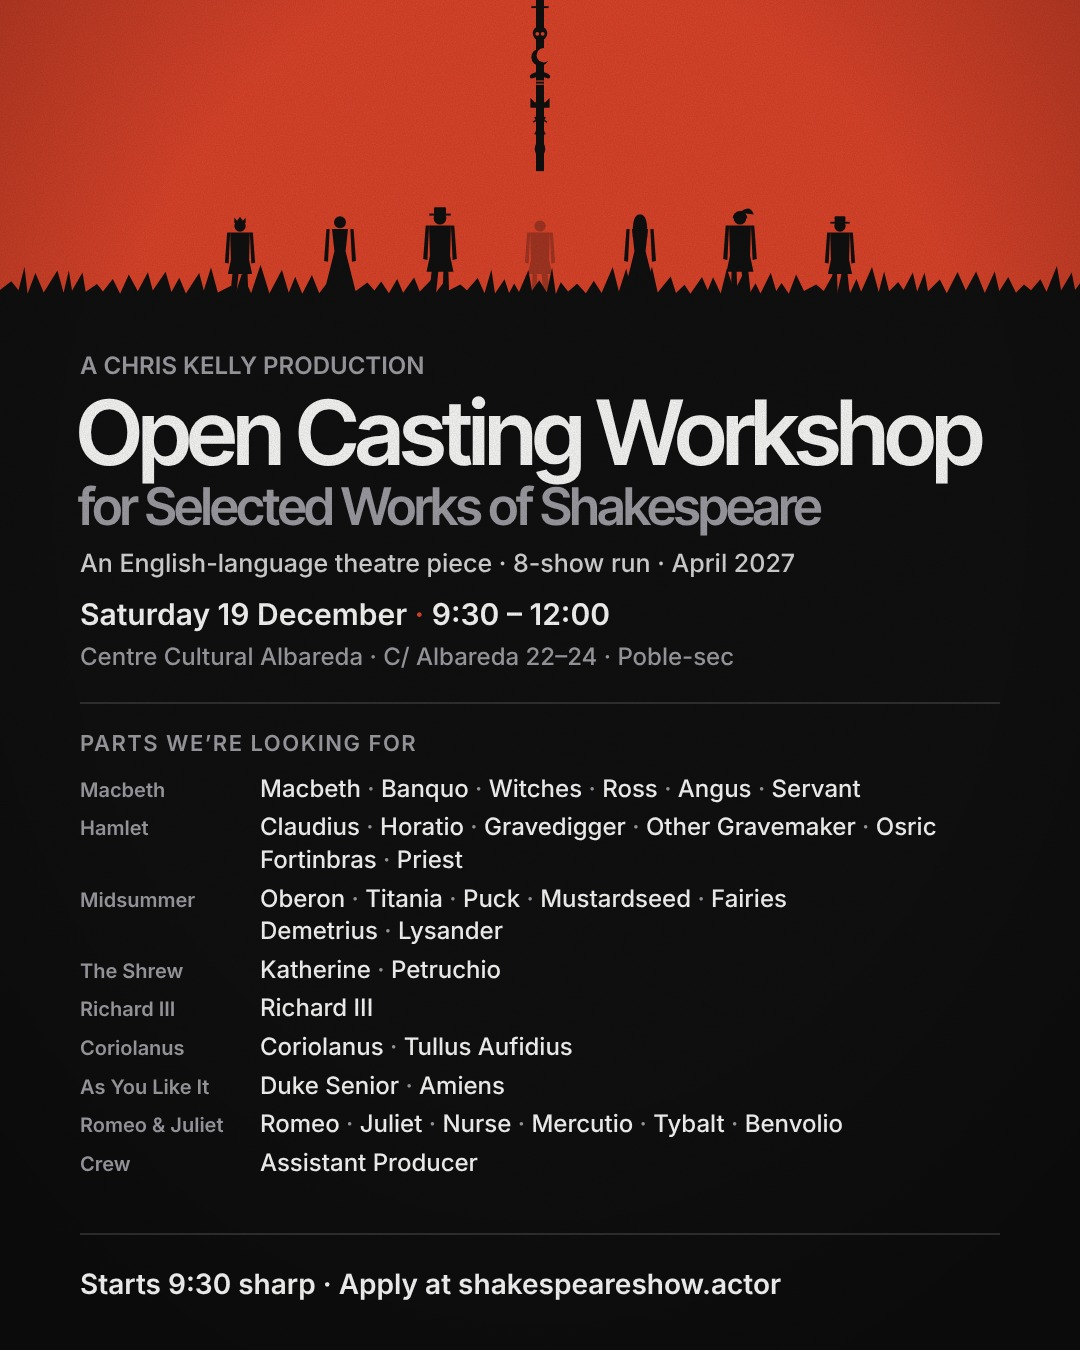
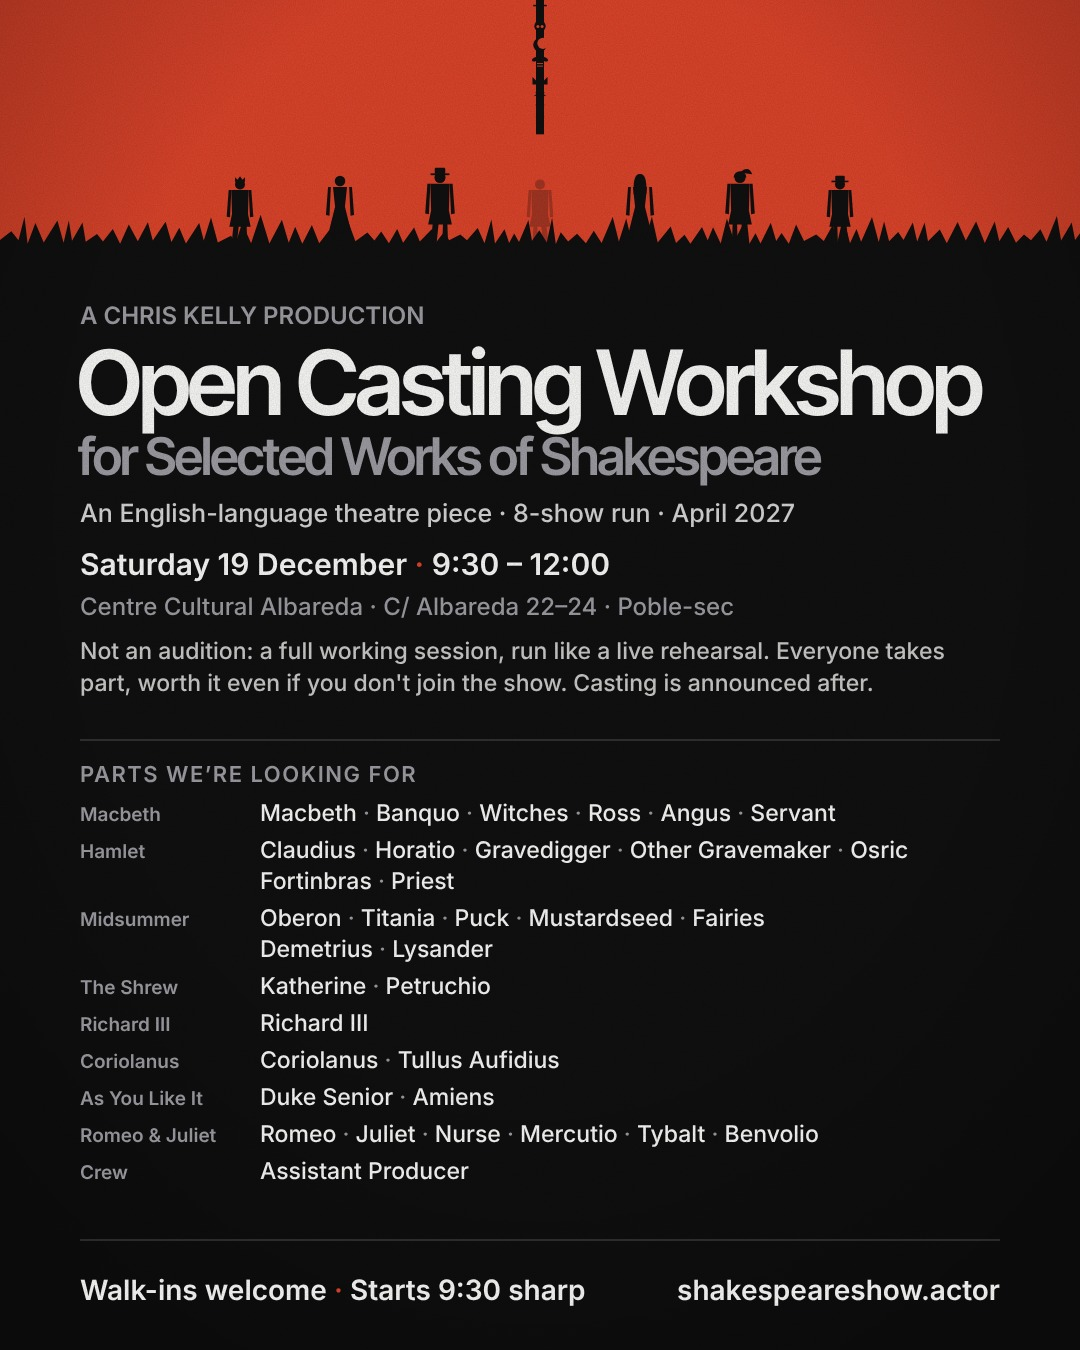
Casting posters: walk-ins welcome, what the workshop is, website in footer
Claude-Session: https://claude.ai/code/session_01P8wBzBKG8Vm4Nk1QFh6zxA

Changed region(s): [[0.0, 0.0, 1.0, 0.8711], [0.0611, 0.9333, 0.9167, 0.9644], [0.0611, 0.7156, 0.2139, 0.8711]]

diff --git a/index.html b/index.html
@@ -2622,7 +2622,7 @@ function castingBlock(compact){
       <h2 id="castwsh" style="margin:4px 0 10px">Come and <em>play</em></h2>
       <p class="clede" style="margin:0 0 14px">Not a normal audition: a full working session where everyone takes part, run like a live rehearsal. We work on the text, the verse and the scenes, on our feet. Even if you don't join the show, you leave with a morning of hands-on Shakespeare. Casting is announced after the workshop.</p>
       <dl class="facts">
-        <div><dt>When</dt><dd><b>Saturday 19 December · 9:30–12:00</b><br><span class="meta">Starts 9:30 sharp</span></dd></div>
+        <div><dt>When</dt><dd><b>Saturday 19 December · 9:30–12:00</b><br><span class="meta">Starts 9:30 sharp · walk-ins welcome</span></dd></div>
         <div><dt>Where</dt><dd><a href="${map}" target="_blank" rel="noopener">Centre Cultural Albareda</a><br><span class="meta">C/ Albareda 22–24, Poble-sec, Barcelona</span></dd></div>
         <div><dt>Casting</dt><dd>Macbeth, Hamlet, A Midsummer Night's Dream, The Taming of the Shrew, Richard III, Coriolanus, As You Like It, Romeo &amp; Juliet<br><span class="meta">Also looking for an Assistant Producer</span></dd></div>
       </dl>

diff --git a/posters/source/casting.py b/posters/source/casting.py
@@ -37,8 +37,8 @@ def wrapw(words, face, size, width, sep=" · "):
         else: cur = t
     lines.append(cur)
     # no orphans: if the last line is a single part, take one more down with it
-    if len(lines) > 1 and " · " not in lines[-1] and " · " in lines[-2]:
-        a, b = lines[-2].rsplit(" · ", 1); lines[-2:] = [a, b + sep + lines[-1]]
+    if len(lines) > 1 and sep not in lines[-1] and sep in lines[-2]:
+        a, b = lines[-2].rsplit(sep, 1); lines[-2:] = [a, b + sep + lines[-1]]
     return lines
 
 def casting(W, H):
@@ -46,8 +46,8 @@ def casting(W, H):
     k = 1.12 if tall else 1
     rnd = random.Random("casting" + str(H))
     bg = "#D8432A"
-    ground = 360 if tall else 290
-    figh = 130 if tall else 84
+    ground = 330 if tall else 240
+    figh = 124 if tall else 74
     M = 80; TW = W - 2 * M
     s = [f'<svg xmlns="http://www.w3.org/2000/svg" width="{W}" height="{H}" viewBox="0 0 {W} {H}">',
          '<defs><filter id="grain"><feTurbulence type="fractalNoise" baseFrequency=".9" numOctaves="2" seed="4"/><feColorMatrix values="0 0 0 0 0  0 0 0 0 0  0 0 0 0 0  0 0 0 -1.2 1.05"/></filter>',
@@ -75,21 +75,29 @@ def casting(W, H):
     s.append(f'<text x="{M}" y="{y:.0f}" font-family="Inter" font-weight="600" font-size="{ds}" fill="{WHITE}">{DATE} <tspan fill="{bg}">·</tspan> {TIME}</text>')
     y += ds * 1.35
     s.append(f'<text x="{M}" y="{y:.0f}" font-family="Inter" font-weight="500" font-size="{round(ds*.8)}" fill="{GREY}">{esc(PLACE)} · {esc(ADDR)}</text>')
+    # what it is
+    bs = 26 if tall else 23
+    y += bs * 1.9
+    blurb = ("Not an audition: a full working session, run like a live rehearsal. Everyone takes part, "
+             "worth it even if you don't join the show. Casting is announced after.")
+    for line in wrapw(blurb.split(" "), "Inter500", bs, TW, sep=" "):
+        s.append(f'<text x="{M}" y="{y:.0f}" font-family="Inter" font-weight="500" font-size="{bs}" fill="{WHITE}" fill-opacity=".8">{esc(line)}</text>')
+        y += bs * 1.4
     # parts
-    y += ds * 1.25
+    y += ds * .55
     s.append(f'<line x1="{M}" y1="{y:.0f}" x2="{W-M}" y2="{y:.0f}" stroke="{WHITE}" stroke-opacity=".14" stroke-width="2"/>')
     ls = round(22 * k)
-    y += ls * 2.2
+    y += ls * (2.2 if tall else 1.9)
     s.append(f'<text x="{M}" y="{y:.0f}" font-family="Inter" font-weight="600" font-size="{ls}" fill="{GREY}" letter-spacing="1.5">PARTS WE’RE LOOKING FOR</text>')
-    ps = 28 if tall else 24; col = 196 if tall else 180
-    y += ps * 1.9
+    ps = 28 if tall else 23; col = 196 if tall else 180
+    y += ps * (1.9 if tall else 1.7)
     for play, parts in PARTS:
         s.append(f'<text x="{M}" y="{y:.0f}" font-family="Inter" font-weight="600" font-size="{round(ps*.82)}" fill="{GREY}">{esc(play)}</text>')
         for line in wrapw(parts, "Inter500", ps, TW - col):
             s.append(f'<text x="{M+col}" y="{y:.0f}" font-family="Inter" font-weight="500" font-size="{ps}" fill="{WHITE}">{esc(line).replace(" · ", f" <tspan fill=\'{GREY}\'>·</tspan> ")}</text>')
             y += ps * 1.36
         y += ps * .25
-    if tall:
+    if False:
         qs = 34
         y += qs * 1.6
         s.append(f'<text x="{M}" y="{y:.0f}" font-family="Inter" font-style="italic" font-size="{qs}" fill="{WHITE}" fill-opacity=".88">“We know what we are, but know not what we may be.”</text>')
@@ -97,12 +105,11 @@ def casting(W, H):
         s.append(f'<text x="{M}" y="{y:.0f}" font-family="Inter" font-weight="500" font-size="{round(qs*.66)}" fill="{GREY}">Hamlet, IV.v</text>')
     # footer
     fs = round(28 * k)
-    by = H - (220 if tall else 56)
+    by = H - (270 if tall else 50)
     s.append(f'<line x1="{M}" y1="{by-fs-32}" x2="{W-M}" y2="{by-fs-32}" stroke="{WHITE}" stroke-opacity=".14" stroke-width="2"/>')
-    s.append(f'<text x="{M}" y="{by}" font-family="Inter" font-weight="600" font-size="{fs}" fill="{WHITE}">Starts 9:30 sharp · Apply at shakespeareshow.actor</text>' if not tall else
-             f'<text x="{M}" y="{by}" font-family="Inter" font-weight="600" font-size="{fs}" fill="{WHITE}">Starts 9:30 sharp</text>')
-    if tall:
-        s.append(f'<text x="{W-M}" y="{by}" text-anchor="end" font-family="Inter" font-weight="500" font-size="{fs-4}" fill="{GREY}">shakespeareshow.actor</text>')
+    s.append(f'<text x="{M}" y="{by}" font-family="Inter" font-weight="600" font-size="{fs}" fill="{WHITE}">Walk-ins welcome <tspan fill="{bg}">·</tspan> Starts 9:30 sharp</text>')
+    if tall: s.append(f'<text x="{M}" y="{by+fs*1.6:.0f}" font-family="Inter" font-weight="600" font-size="{fs}" fill="{WHITE}">shakespeareshow.actor</text>')
+    else: s.append(f'<text x="{W-M}" y="{by}" text-anchor="end" font-family="Inter" font-weight="600" font-size="{fs}" fill="{WHITE}">shakespeareshow.actor</text>')
     s.append(f'<rect width="{W}" height="{H}" filter="url(#grain)" opacity=".12"/></svg>')
     return "".join(s), y, by
 
